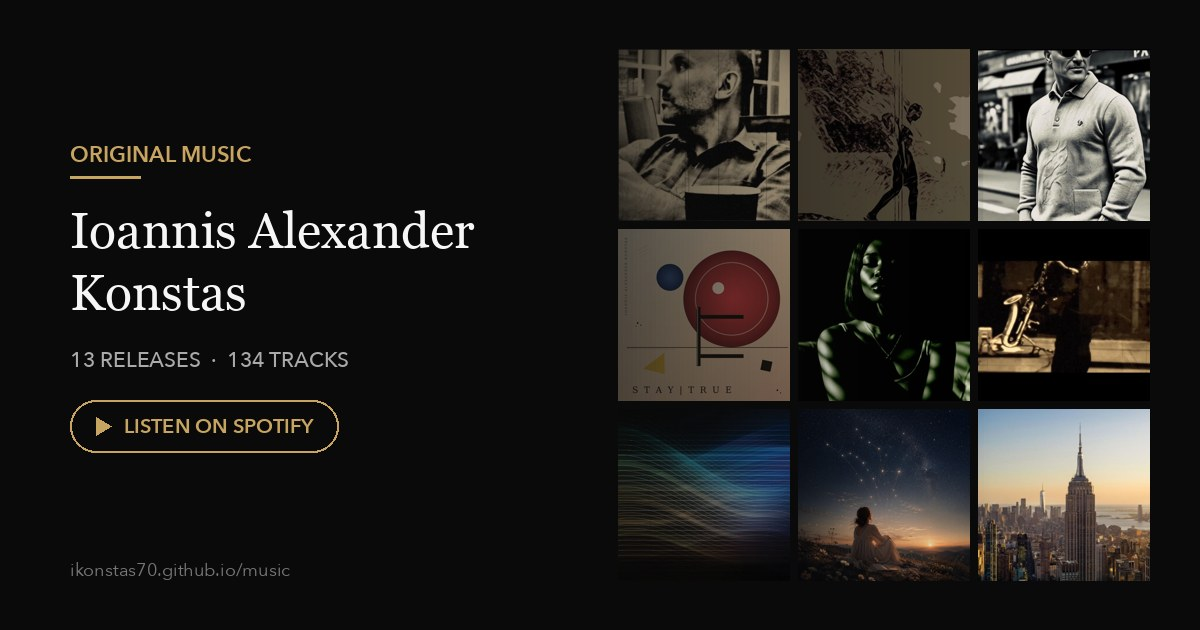
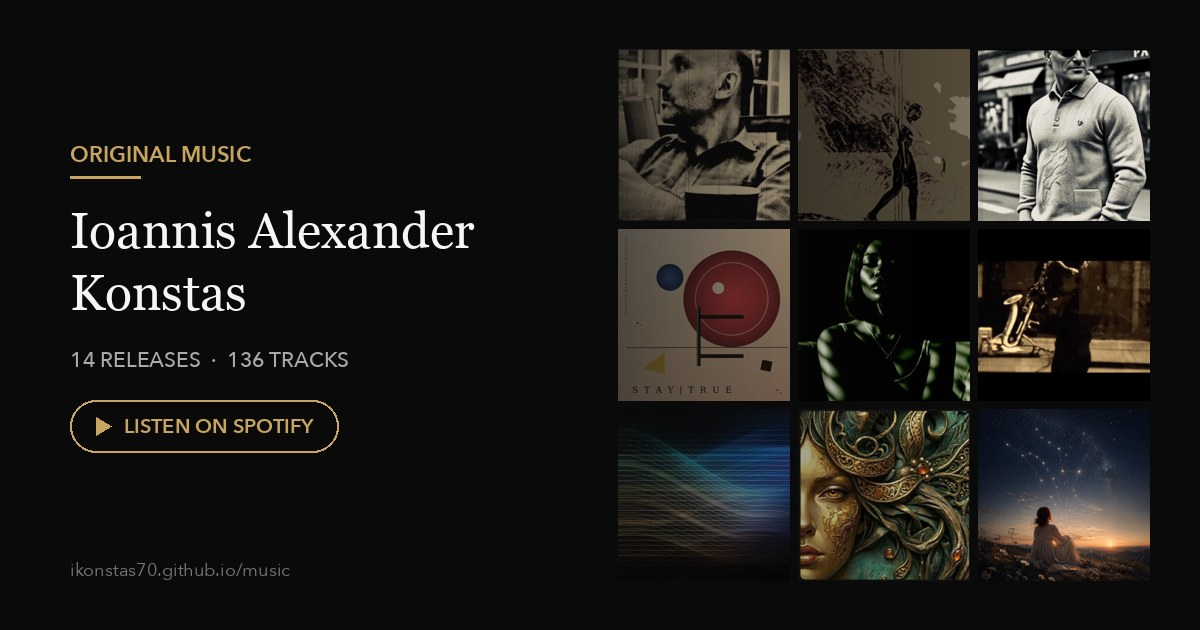
Add single: Nome di Afrodite (2 tracks, Aug 24 2026)
Release page, cover, share card, and track pages; discography now 14 releases, 136 tracks.

Changed region(s): [[0.6475, 0.6333, 0.9558, 0.9349]]

diff --git a/albums/nome-di-afrodite.html b/albums/nome-di-afrodite.html
@@ -1,0 +1,71 @@
+<!DOCTYPE html>
+<html lang="en">
+<head>
+<link rel="canonical" href="https://ikonstas70.github.io/music/albums/nome-di-afrodite.html">
+<meta charset="utf-8">
+<meta name="viewport" content="width=device-width, initial-scale=1">
+<title>Nome di Afrodite — Ioannis Alexander Konstas</title>
+<meta name="description" content="Nome di Afrodite — single by Ioannis Alexander Konstas. 2 tracks. Stream on Spotify.">
+<meta name="author" content="Ioannis Alexander Konstas">
+
+<meta property="og:type" content="music.album">
+<meta property="og:url" content="https://ikonstas70.github.io/music/albums/nome-di-afrodite.html">
+<meta property="og:title" content="Nome di Afrodite — Ioannis Alexander Konstas">
+<meta property="og:description" content="Nome di Afrodite — single by Ioannis Alexander Konstas. 2 tracks. Stream on Spotify.">
+<meta property="og:image" content="https://ikonstas70.github.io/music/share/nome-di-afrodite.jpg">
+<meta property="og:image:secure_url" content="https://ikonstas70.github.io/music/share/nome-di-afrodite.jpg">
+<meta property="og:image:type" content="image/jpeg">
+<meta property="og:image:width" content="1200">
+<meta property="og:image:height" content="630">
+<meta property="og:image:alt" content="Nome di Afrodite cover art">
+<meta property="og:site_name" content="Ioannis Alexander Konstas — Music">
+<meta name="twitter:card" content="summary_large_image">
+<meta name="twitter:title" content="Nome di Afrodite — Ioannis Alexander Konstas">
+<meta name="twitter:description" content="Nome di Afrodite — single by Ioannis Alexander Konstas. 2 tracks. Stream on Spotify.">
+<meta name="twitter:image" content="https://ikonstas70.github.io/music/share/nome-di-afrodite.jpg">
+
+<link rel="stylesheet" href="/music/style.css">
+</head>
+<body>
+<div class="wrap">
+  <header class="site">
+    <a class="brand" href="/music/">Ioannis Alexander Konstas<em>.</em></a>
+    <div class="tagline">Original Music</div>
+    <div class="rule"></div>
+    <nav class="top">
+      <a href="/music/">Discography</a>
+      <a href="https://open.spotify.com/artist/7gbVmhIUyDkCw47jHlkiTF">Spotify Profile</a>
+    </nav>
+  </header>
+
+  <main>
+    <img class="album-cover" src="../covers/nome-di-afrodite.jpg" alt="Nome di Afrodite cover art">
+    <h1 style="text-align:center">Nome di Afrodite</h1>
+    <p class="meta" style="text-align:center">Single &middot; 2 songs &middot; 8 min 33 sec &middot; Released August 24, 2026</p>
+
+    <div class="spotify-embed">
+      <iframe src="https://open.spotify.com/embed/album/4UnZ38XKlIeQ9HejWrMgwD?utm_source=oembed" width="100%" height="352" frameborder="0" allowfullscreen="" allow="autoplay; clipboard-write; encrypted-media; fullscreen; picture-in-picture" loading="lazy" title="Spotify Embed: Nome di Afrodite"></iframe>
+    </div>
+
+    <h2>Tracklist</h2>
+    <p class="source-note">Tap a track to play a preview right here, via Spotify’s own player.</p>
+    <ol class="tracklist">
+      <li><span class="tn">1</span><button type="button" class="tt" data-track-id="26nkyZV3t8dYWKQ7Qx9ZvK">O Amore (Nome di Afrodite)</button><span class="td">4:48</span></li>
+      <li><span class="tn">2</span><button type="button" class="tt" data-track-id="3Ac9mEYf9P84GvyoH7916W">O Amore - Baroque Inspired</button><span class="td">3:45</span></li>
+    </ol>
+
+    <p style="text-align:center;"><a href="https://open.spotify.com/album/4UnZ38XKlIeQ9HejWrMgwD">Listen on Spotify &rarr;</a></p>
+    <a class="artist-link" href="https://open.spotify.com/artist/7gbVmhIUyDkCw47jHlkiTF">Follow on Spotify &middot; Ioannis Alexander Konstas</a>
+
+    <p class="source-note" style="text-align:center; margin-top:40px;">&#8471; &amp; &copy; 2026 6722978 Records DK</p>
+
+    <p style="margin-top:32px;"><a href="/music/">&larr; Back to Discography</a></p>
+  </main>
+
+  <footer class="site">
+    <p>&copy; 2026 Ioannis Konstas &middot; <a href="https://github.com/ikonstas70">github.com/ikonstas70</a></p>
+  </footer>
+</div>
+<script src="/music/music.js"></script>
+</body>
+</html>

diff --git a/tracks/o-amore-baroque-inspired--stay-true.html b/tracks/o-amore-baroque-inspired--stay-true.html
@@ -1,0 +1,61 @@
+<!DOCTYPE html>
+<html lang="en">
+<head>
+<link rel="canonical" href="https://ikonstas70.github.io/music/tracks/o-amore-baroque-inspired--stay-true.html">
+<meta charset="utf-8">
+<meta name="viewport" content="width=device-width, initial-scale=1">
+<title>O Amore (Baroque Inspired) — Ioannis Alexander Konstas</title>
+<meta name="description" content="O Amore (Baroque Inspired) — track 17 from the Album “Stay True” by Ioannis Alexander Konstas. Stream on Spotify.">
+<meta name="author" content="Ioannis Alexander Konstas">
+
+<meta property="og:type" content="music.song">
+<meta property="og:url" content="https://ikonstas70.github.io/music/tracks/o-amore-baroque-inspired--stay-true.html">
+<meta property="og:title" content="O Amore (Baroque Inspired) — Ioannis Alexander Konstas">
+<meta property="og:description" content="O Amore (Baroque Inspired) — track 17 from the Album “Stay True” by Ioannis Alexander Konstas. Stream on Spotify.">
+<meta property="og:image" content="https://ikonstas70.github.io/music/share/tracks/o-amore-baroque-inspired--stay-true.jpg">
+<meta property="og:image:secure_url" content="https://ikonstas70.github.io/music/share/tracks/o-amore-baroque-inspired--stay-true.jpg">
+<meta property="og:image:type" content="image/jpeg">
+<meta property="og:image:width" content="1200">
+<meta property="og:image:height" content="630">
+<meta property="og:image:alt" content="O Amore (Baroque Inspired) — Stay True cover art">
+<meta property="og:site_name" content="Ioannis Alexander Konstas — Music">
+<meta name="twitter:card" content="summary_large_image">
+<meta name="twitter:title" content="O Amore (Baroque Inspired) — Ioannis Alexander Konstas">
+<meta name="twitter:description" content="O Amore (Baroque Inspired) — track 17 from the Album “Stay True” by Ioannis Alexander Konstas. Stream on Spotify.">
+<meta name="twitter:image" content="https://ikonstas70.github.io/music/share/tracks/o-amore-baroque-inspired--stay-true.jpg">
+
+<link rel="stylesheet" href="/music/style.css">
+</head>
+<body>
+<div class="wrap">
+  <header class="site">
+    <a class="brand" href="/music/">Ioannis Alexander Konstas<em>.</em></a>
+    <div class="tagline">Original Music</div>
+    <div class="rule"></div>
+    <nav class="top">
+      <a href="/music/">Discography</a>
+      <a href="https://open.spotify.com/artist/7gbVmhIUyDkCw47jHlkiTF">Spotify Profile</a>
+    </nav>
+  </header>
+
+  <main>
+    <img class="album-cover" src="../covers/stay-true.jpg" alt="Stay True cover art">
+    <h1 style="text-align:center">O Amore (Baroque Inspired)</h1>
+    <p class="meta" style="text-align:center">Track 17 from the Album <a href="/music/albums/stay-true.html">Stay True</a> &middot; 3:44 &middot; 2026</p>
+
+    <div class="spotify-embed">
+      <iframe src="https://open.spotify.com/embed/track/2OoRV53EEkqSwWDIVSxuy1?utm_source=oembed" width="100%" height="352" frameborder="0" allowfullscreen="" allow="autoplay; clipboard-write; encrypted-media; fullscreen; picture-in-picture" loading="lazy" title="Spotify Embed: O Amore (Baroque Inspired)"></iframe>
+    </div>
+
+    <p style="text-align:center;"><a href="https://open.spotify.com/track/2OoRV53EEkqSwWDIVSxuy1">Listen on Spotify &rarr;</a></p>
+    <a class="artist-link" href="https://open.spotify.com/artist/7gbVmhIUyDkCw47jHlkiTF">Follow on Spotify &middot; Ioannis Alexander Konstas</a>
+
+    <p style="margin-top:32px;"><a href="/music/albums/stay-true.html">&larr; The full Album: Stay True</a> &nbsp;&middot;&nbsp; <a href="/music/">Discography</a></p>
+  </main>
+
+  <footer class="site">
+    <p>&copy; 2026 Ioannis Konstas &middot; <a href="https://github.com/ikonstas70">github.com/ikonstas70</a></p>
+  </footer>
+</div>
+</body>
+</html>

diff --git a/tracks/o-amore-baroque-inspired--nome-di-afrodite.html b/tracks/o-amore-baroque-inspired--nome-di-afrodite.html
@@ -1,0 +1,61 @@
+<!DOCTYPE html>
+<html lang="en">
+<head>
+<link rel="canonical" href="https://ikonstas70.github.io/music/tracks/o-amore-baroque-inspired--nome-di-afrodite.html">
+<meta charset="utf-8">
+<meta name="viewport" content="width=device-width, initial-scale=1">
+<title>O Amore - Baroque Inspired — Ioannis Alexander Konstas</title>
+<meta name="description" content="O Amore - Baroque Inspired — single by Ioannis Alexander Konstas. Stream on Spotify.">
+<meta name="author" content="Ioannis Alexander Konstas">
+
+<meta property="og:type" content="music.song">
+<meta property="og:url" content="https://ikonstas70.github.io/music/tracks/o-amore-baroque-inspired--nome-di-afrodite.html">
+<meta property="og:title" content="O Amore - Baroque Inspired — Ioannis Alexander Konstas">
+<meta property="og:description" content="O Amore - Baroque Inspired — single by Ioannis Alexander Konstas. Stream on Spotify.">
+<meta property="og:image" content="https://ikonstas70.github.io/music/share/tracks/o-amore-baroque-inspired--nome-di-afrodite.jpg">
+<meta property="og:image:secure_url" content="https://ikonstas70.github.io/music/share/tracks/o-amore-baroque-inspired--nome-di-afrodite.jpg">
+<meta property="og:image:type" content="image/jpeg">
+<meta property="og:image:width" content="1200">
+<meta property="og:image:height" content="630">
+<meta property="og:image:alt" content="O Amore - Baroque Inspired — Nome di Afrodite cover art">
+<meta property="og:site_name" content="Ioannis Alexander Konstas — Music">
+<meta name="twitter:card" content="summary_large_image">
+<meta name="twitter:title" content="O Amore - Baroque Inspired — Ioannis Alexander Konstas">
+<meta name="twitter:description" content="O Amore - Baroque Inspired — single by Ioannis Alexander Konstas. Stream on Spotify.">
+<meta name="twitter:image" content="https://ikonstas70.github.io/music/share/tracks/o-amore-baroque-inspired--nome-di-afrodite.jpg">
+
+<link rel="stylesheet" href="/music/style.css">
+</head>
+<body>
+<div class="wrap">
+  <header class="site">
+    <a class="brand" href="/music/">Ioannis Alexander Konstas<em>.</em></a>
+    <div class="tagline">Original Music</div>
+    <div class="rule"></div>
+    <nav class="top">
+      <a href="/music/">Discography</a>
+      <a href="https://open.spotify.com/artist/7gbVmhIUyDkCw47jHlkiTF">Spotify Profile</a>
+    </nav>
+  </header>
+
+  <main>
+    <img class="album-cover" src="../covers/nome-di-afrodite.jpg" alt="Nome di Afrodite cover art">
+    <h1 style="text-align:center">O Amore - Baroque Inspired</h1>
+    <p class="meta" style="text-align:center">Single <a href="/music/albums/nome-di-afrodite.html">Nome di Afrodite</a> &middot; 3:45 &middot; 2026</p>
+
+    <div class="spotify-embed">
+      <iframe src="https://open.spotify.com/embed/track/3Ac9mEYf9P84GvyoH7916W?utm_source=oembed" width="100%" height="352" frameborder="0" allowfullscreen="" allow="autoplay; clipboard-write; encrypted-media; fullscreen; picture-in-picture" loading="lazy" title="Spotify Embed: O Amore - Baroque Inspired"></iframe>
+    </div>
+
+    <p style="text-align:center;"><a href="https://open.spotify.com/track/3Ac9mEYf9P84GvyoH7916W">Listen on Spotify &rarr;</a></p>
+    <a class="artist-link" href="https://open.spotify.com/artist/7gbVmhIUyDkCw47jHlkiTF">Follow on Spotify &middot; Ioannis Alexander Konstas</a>
+
+    <p style="margin-top:32px;"><a href="/music/albums/nome-di-afrodite.html">&larr; Single page</a> &nbsp;&middot;&nbsp; <a href="/music/">Discography</a></p>
+  </main>
+
+  <footer class="site">
+    <p>&copy; 2026 Ioannis Konstas &middot; <a href="https://github.com/ikonstas70">github.com/ikonstas70</a></p>
+  </footer>
+</div>
+</body>
+</html>

diff --git a/tracks/o-amore-nome-di-afrodite.html b/tracks/o-amore-nome-di-afrodite.html
@@ -1,0 +1,61 @@
+<!DOCTYPE html>
+<html lang="en">
+<head>
+<link rel="canonical" href="https://ikonstas70.github.io/music/tracks/o-amore-nome-di-afrodite.html">
+<meta charset="utf-8">
+<meta name="viewport" content="width=device-width, initial-scale=1">
+<title>O Amore (Nome di Afrodite) — Ioannis Alexander Konstas</title>
+<meta name="description" content="O Amore (Nome di Afrodite) — single by Ioannis Alexander Konstas. Stream on Spotify.">
+<meta name="author" content="Ioannis Alexander Konstas">
+
+<meta property="og:type" content="music.song">
+<meta property="og:url" content="https://ikonstas70.github.io/music/tracks/o-amore-nome-di-afrodite.html">
+<meta property="og:title" content="O Amore (Nome di Afrodite) — Ioannis Alexander Konstas">
+<meta property="og:description" content="O Amore (Nome di Afrodite) — single by Ioannis Alexander Konstas. Stream on Spotify.">
+<meta property="og:image" content="https://ikonstas70.github.io/music/share/tracks/o-amore-nome-di-afrodite.jpg">
+<meta property="og:image:secure_url" content="https://ikonstas70.github.io/music/share/tracks/o-amore-nome-di-afrodite.jpg">
+<meta property="og:image:type" content="image/jpeg">
+<meta property="og:image:width" content="1200">
+<meta property="og:image:height" content="630">
+<meta property="og:image:alt" content="O Amore (Nome di Afrodite) — Nome di Afrodite cover art">
+<meta property="og:site_name" content="Ioannis Alexander Konstas — Music">
+<meta name="twitter:card" content="summary_large_image">
+<meta name="twitter:title" content="O Amore (Nome di Afrodite) — Ioannis Alexander Konstas">
+<meta name="twitter:description" content="O Amore (Nome di Afrodite) — single by Ioannis Alexander Konstas. Stream on Spotify.">
+<meta name="twitter:image" content="https://ikonstas70.github.io/music/share/tracks/o-amore-nome-di-afrodite.jpg">
+
+<link rel="stylesheet" href="/music/style.css">
+</head>
+<body>
+<div class="wrap">
+  <header class="site">
+    <a class="brand" href="/music/">Ioannis Alexander Konstas<em>.</em></a>
+    <div class="tagline">Original Music</div>
+    <div class="rule"></div>
+    <nav class="top">
+      <a href="/music/">Discography</a>
+      <a href="https://open.spotify.com/artist/7gbVmhIUyDkCw47jHlkiTF">Spotify Profile</a>
+    </nav>
+  </header>
+
+  <main>
+    <img class="album-cover" src="../covers/nome-di-afrodite.jpg" alt="Nome di Afrodite cover art">
+    <h1 style="text-align:center">O Amore (Nome di Afrodite)</h1>
+    <p class="meta" style="text-align:center">Single <a href="/music/albums/nome-di-afrodite.html">Nome di Afrodite</a> &middot; 4:48 &middot; 2026</p>
+
+    <div class="spotify-embed">
+      <iframe src="https://open.spotify.com/embed/track/26nkyZV3t8dYWKQ7Qx9ZvK?utm_source=oembed" width="100%" height="352" frameborder="0" allowfullscreen="" allow="autoplay; clipboard-write; encrypted-media; fullscreen; picture-in-picture" loading="lazy" title="Spotify Embed: O Amore (Nome di Afrodite)"></iframe>
+    </div>
+
+    <p style="text-align:center;"><a href="https://open.spotify.com/track/26nkyZV3t8dYWKQ7Qx9ZvK">Listen on Spotify &rarr;</a></p>
+    <a class="artist-link" href="https://open.spotify.com/artist/7gbVmhIUyDkCw47jHlkiTF">Follow on Spotify &middot; Ioannis Alexander Konstas</a>
+
+    <p style="margin-top:32px;"><a href="/music/albums/nome-di-afrodite.html">&larr; Single page</a> &nbsp;&middot;&nbsp; <a href="/music/">Discography</a></p>
+  </main>
+
+  <footer class="site">
+    <p>&copy; 2026 Ioannis Konstas &middot; <a href="https://github.com/ikonstas70">github.com/ikonstas70</a></p>
+  </footer>
+</div>
+</body>
+</html>

diff --git a/index.html b/index.html
@@ -5,13 +5,13 @@
 <meta charset="utf-8">
 <meta name="viewport" content="width=device-width, initial-scale=1">
 <title>Ioannis Alexander Konstas — Music</title>
-<meta name="description" content="Original music by Ioannis Alexander Konstas — 13 releases, 134 tracks. Stream on Spotify.">
+<meta name="description" content="Original music by Ioannis Alexander Konstas — 14 releases, 136 tracks. Stream on Spotify.">
 <meta name="author" content="Ioannis Alexander Konstas">
 
 <meta property="og:type" content="website">
 <meta property="og:url" content="https://ikonstas70.github.io/music/">
 <meta property="og:title" content="Ioannis Alexander Konstas — Music">
-<meta property="og:description" content="Original music by Ioannis Alexander Konstas — 13 releases, 134 tracks. Stream on Spotify.">
+<meta property="og:description" content="Original music by Ioannis Alexander Konstas — 14 releases, 136 tracks. Stream on Spotify.">
 <meta property="og:image" content="https://ikonstas70.github.io/music/share/discography.jpg">
 <meta property="og:image:secure_url" content="https://ikonstas70.github.io/music/share/discography.jpg">
 <meta property="og:image:type" content="image/jpeg">
@@ -20,7 +20,7 @@
 <meta property="og:site_name" content="Ioannis Alexander Konstas — Music">
 <meta name="twitter:card" content="summary_large_image">
 <meta name="twitter:title" content="Ioannis Alexander Konstas — Music">
-<meta name="twitter:description" content="Original music by Ioannis Alexander Konstas — 13 releases, 134 tracks. Stream on Spotify.">
+<meta name="twitter:description" content="Original music by Ioannis Alexander Konstas — 14 releases, 136 tracks. Stream on Spotify.">
 <meta name="twitter:image" content="https://ikonstas70.github.io/music/share/discography.jpg">
 
 <link rel="stylesheet" href="/music/style.css">
@@ -39,7 +39,7 @@
 
   <main>
     <h1 style="text-align:center">Discography</h1>
-    <p class="section-intro">13 releases, 134 tracks. Every track plays a preview right here via Spotify&rsquo;s own player &mdash; or follow through to stream the full catalog.</p>
+    <p class="section-intro">14 releases, 136 tracks. Every track plays a preview right here via Spotify&rsquo;s own player &mdash; or follow through to stream the full catalog.</p>
 
     <div class="discography-grid">
       <a class="album-card" href="/music/albums/simeio-miden.html">
@@ -81,6 +81,11 @@
         <img src="/music/covers/purgatory-rapid-fire.jpg" alt="Purgatory (Rapid Fire) cover art" loading="lazy">
         <h3>Purgatory (Rapid Fire)</h3>
         <span class="ac-meta">Album &middot; 2026 &middot; 7 songs</span>
+      </a>
+      <a class="album-card" href="/music/albums/nome-di-afrodite.html">
+        <img src="/music/covers/nome-di-afrodite.jpg" alt="Nome di Afrodite cover art" loading="lazy">
+        <h3>Nome di Afrodite</h3>
+        <span class="ac-meta">Single &middot; 2026 &middot; 2 songs</span>
       </a>
       <a class="album-card" href="/music/albums/borrowed-constellations.html">
         <img src="/music/covers/borrowed-constellations.jpg" alt="Borrowed Constellations cover art" loading="lazy">
